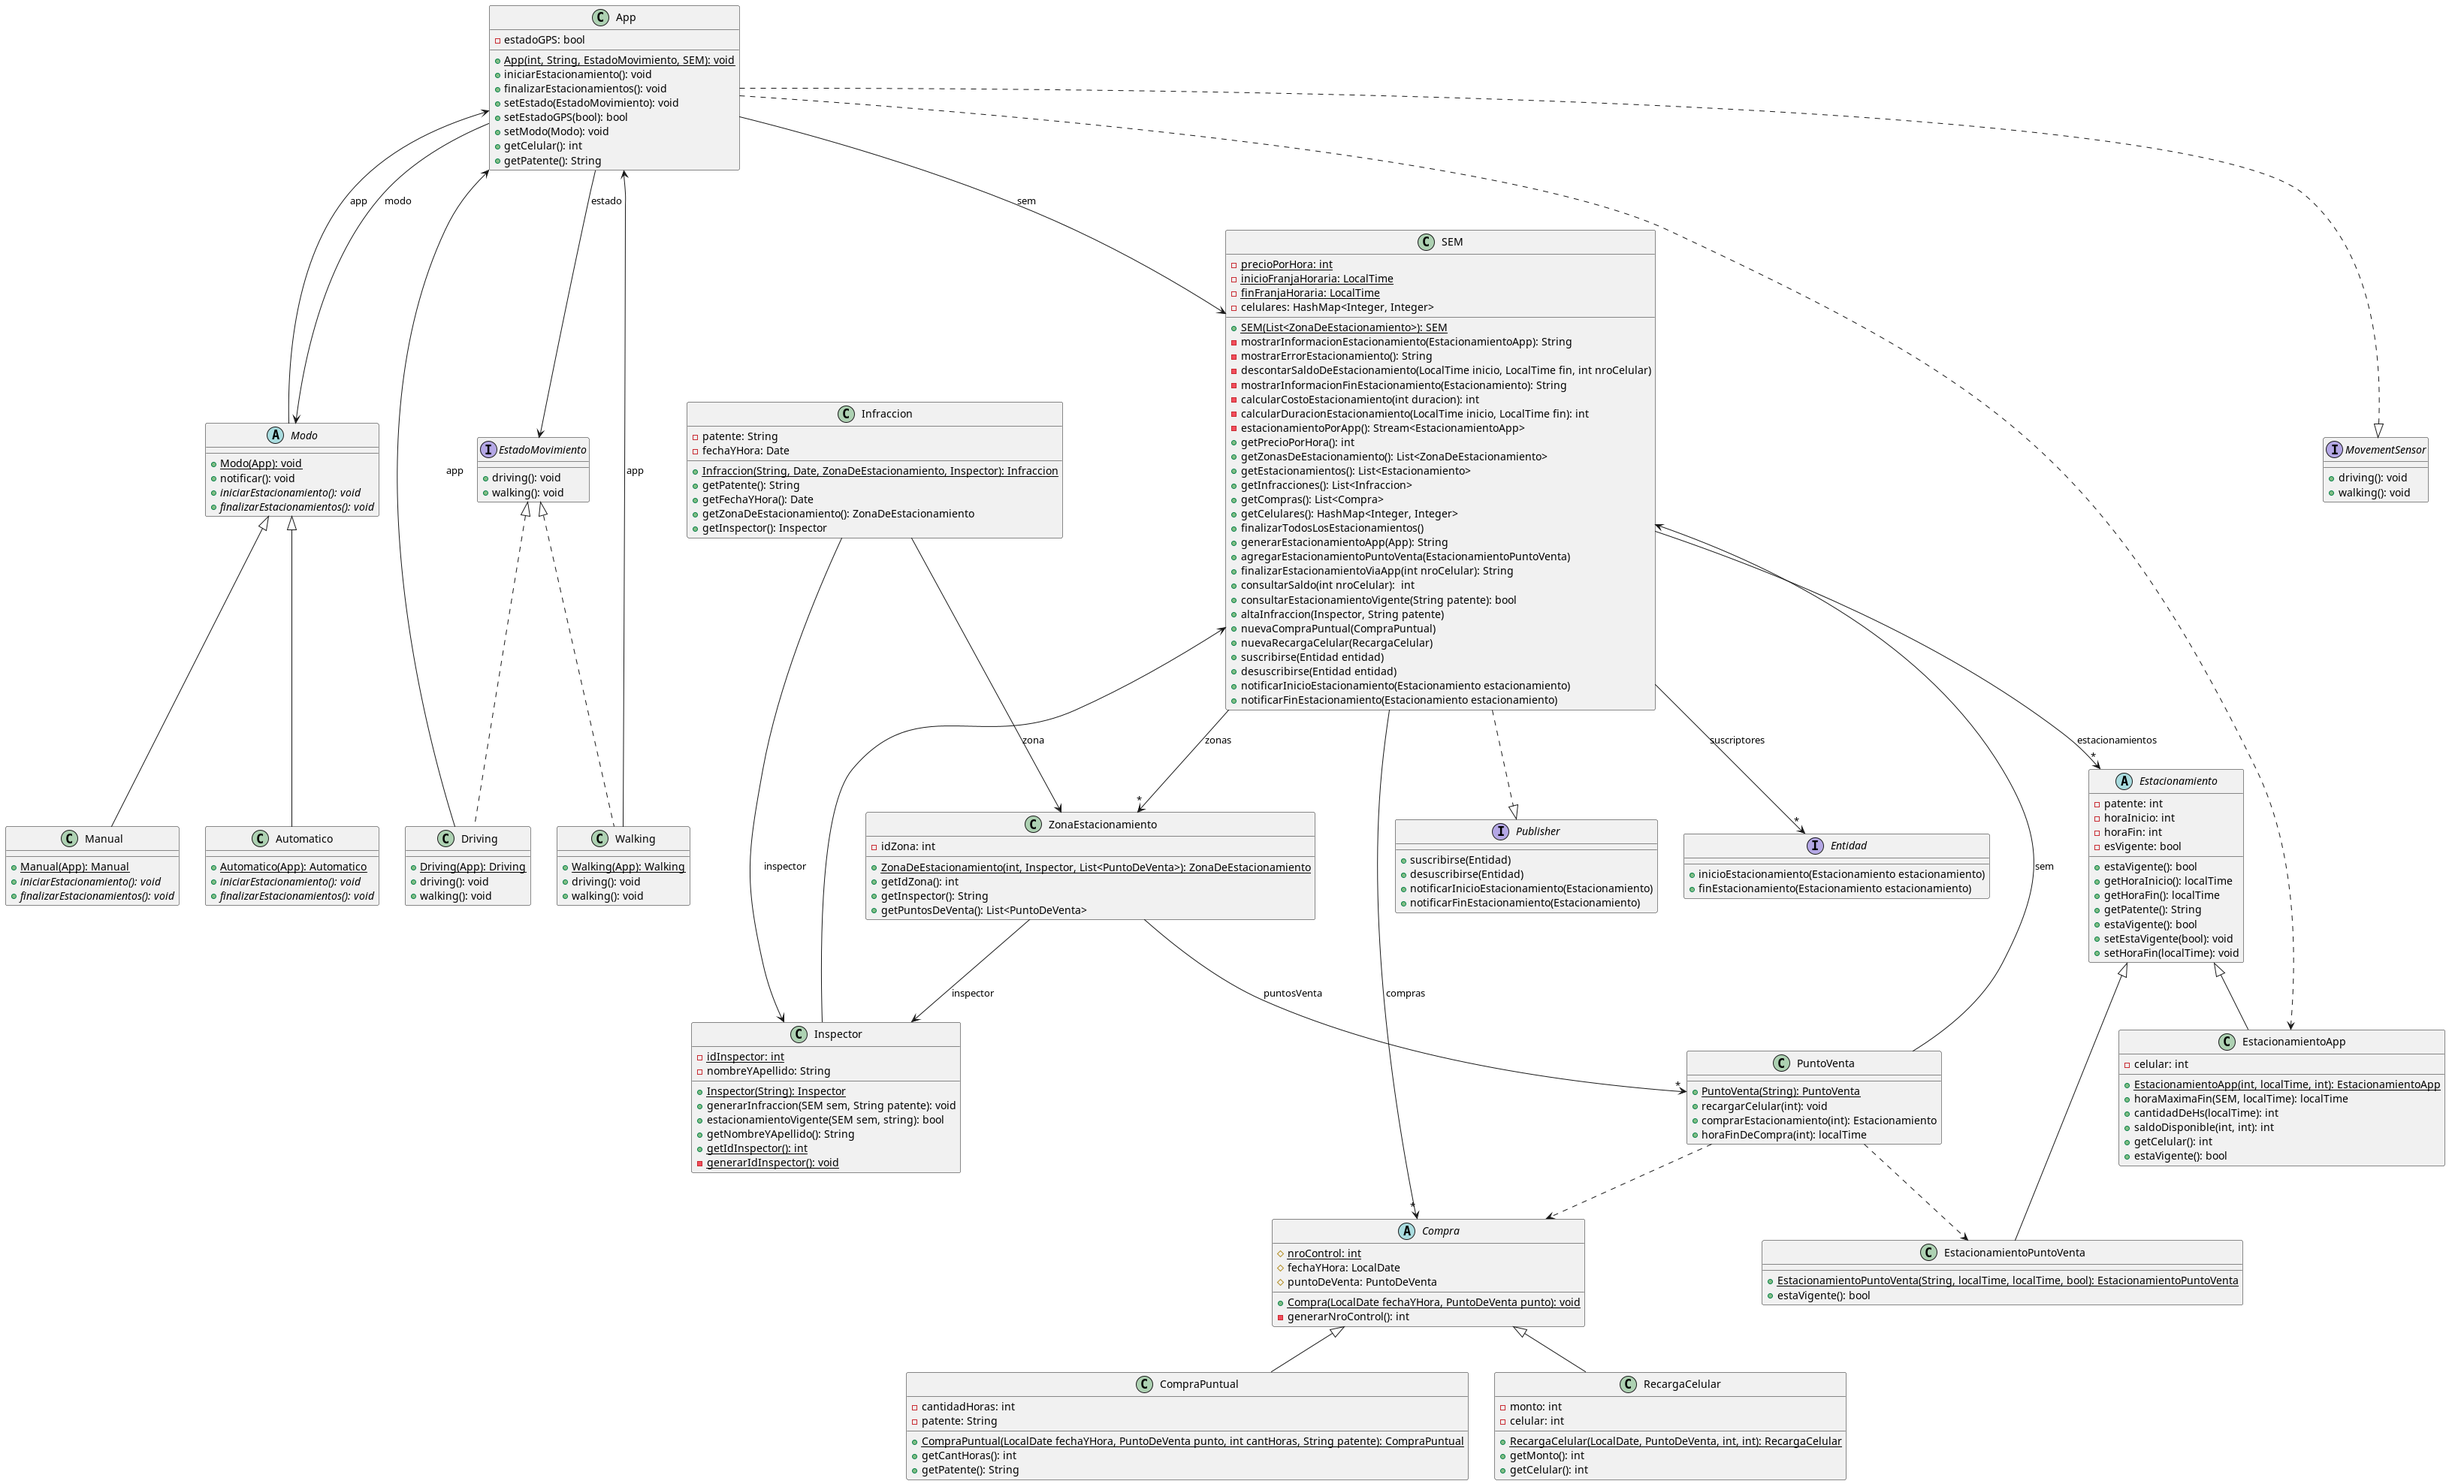
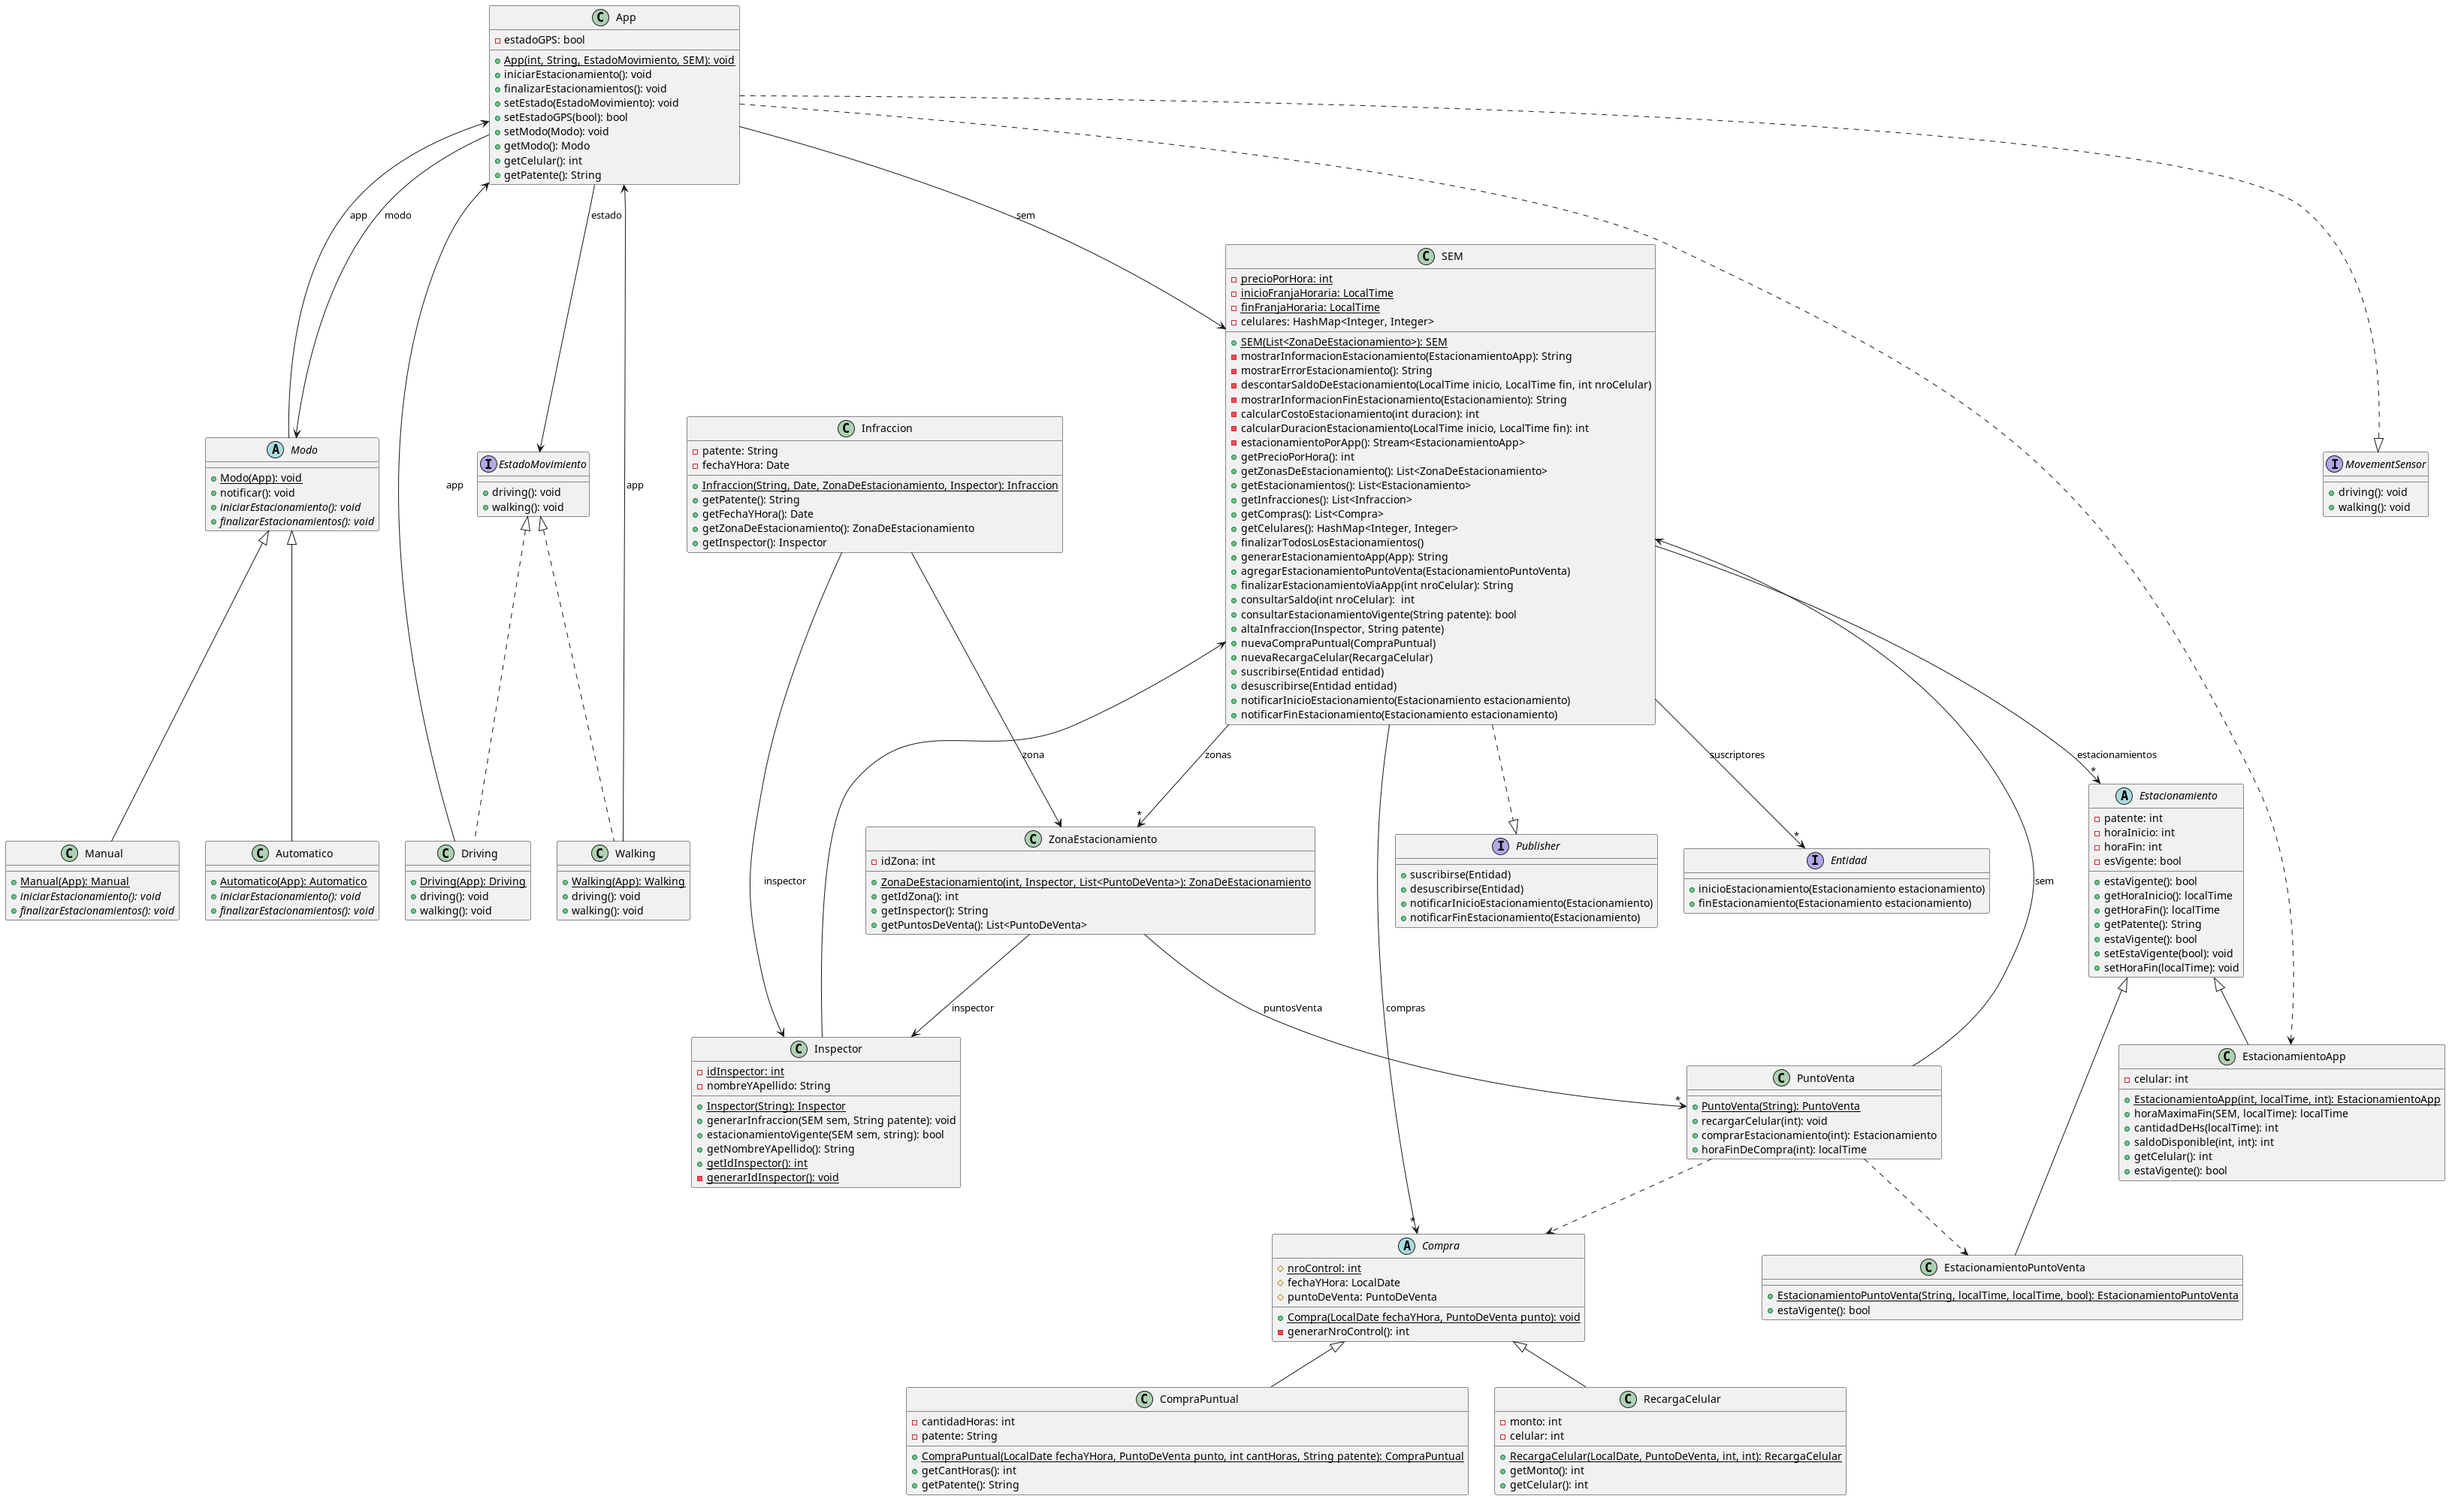
More additions

diff --git a/src/ar/edu/unq/po2/sem/Walking.java b/src/ar/edu/unq/po2/sem/Walking.java
@@ -11,7 +11,7 @@ public class Walking implements EstadoMovimiento {
     public void driving() {
         EstadoMovimiento nuevoEstado = new Driving(this.app);
         this.app.setEstado(nuevoEstado);
-        this.app.finalizarEstacionamiento();
+        this.app.getModo().finalizarEstacionamiento();
     }
 
     @Override

diff --git a/src/ar/edu/unq/po2/sem/Driving.java b/src/ar/edu/unq/po2/sem/Driving.java
@@ -15,6 +15,6 @@ public class Driving implements EstadoMovimiento {
     public void walking() {
         EstadoMovimiento nuevoEstado = new Walking(this.app);
         this.app.setEstado(nuevoEstado);
-        this.app.iniciarEstacionamiento();
+        this.app.getModo().iniciarEstacionamiento();
     }
 }

diff --git a/src/ar/edu/unq/po2/sem/App.java b/src/ar/edu/unq/po2/sem/App.java
@@ -37,6 +37,10 @@ public class App implements MovementSensor {
 		this.modo = m;
     }
 
+	public Modo getModo() {
+		return modo;
+	}
+
 	public int getCelular() {
 		return celular;
 	}
